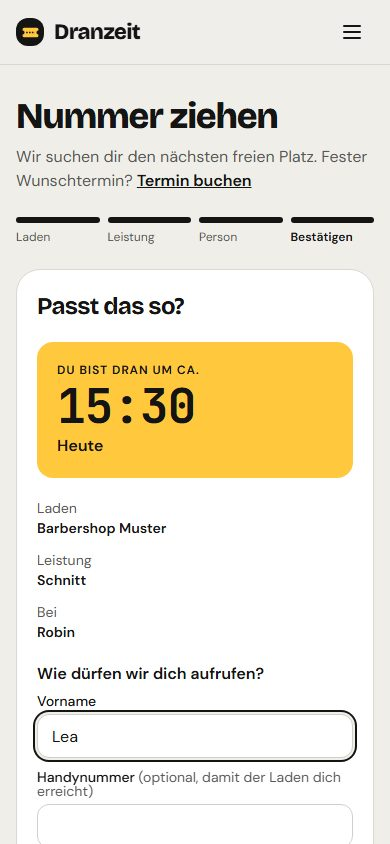
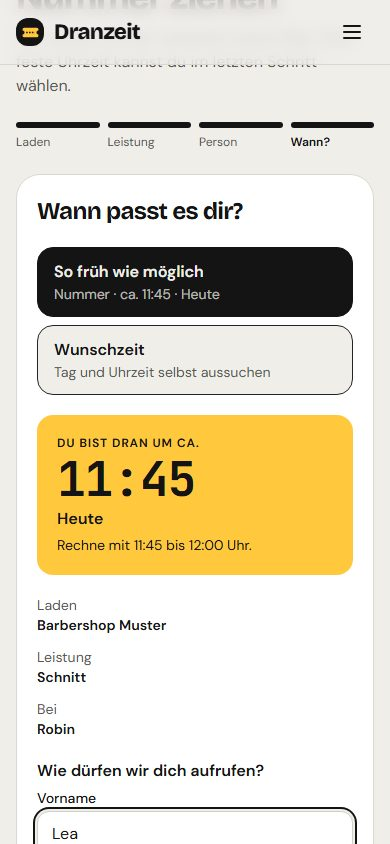
Hilfe-Bilder neu aus dem Testladen, Browser-Tests an die neue Bedienung
- Testladen neu angelegt (das alte Testkonto war beim Konten-Aufräumen weg);
  dev/e2e/hilfe-bilder.cjs hat alle 14 Hilfe-Bilder neu aufgenommen: Heute
  mit Startklar, „Wann passt es dir?“, Zeitfenster auf der Nummer, Dialog
  „Kunde eintragen“, Tarif mit neuem Menü u. a.
- nummer-vergeben.md: Bildunterschrift zum Dialog „Kunde eintragen“
- schlange-tresen.cjs: liest die Zeile „3 warten · …“ unter „Heute“ statt
  der Kachel, die jetzt im Kalender steht
- warteschlange-sonderfaelle.cjs: Blocker anlegen, nachlesen und aufräumen
  als Inhaber des Testladens – ohne Anmeldung lassen die Firestore-Regeln
  (seit 23.10.) weder Nummern ohne Schlüssel noch fremde Termine zu

diff --git a/backend/app/hilfe/artikel/nummer-vergeben.md b/backend/app/hilfe/artikel/nummer-vergeben.md
@@ -15,7 +15,7 @@ Steht jemand ohne Handy vor dir, reihst du ihn selbst ein. Dranzeit sucht dabei 
 4. Trag bei **„Name zum Aufrufen (freiwillig)“** ein, wie du ihn nachher rufst, zum Beispiel „Herr Krause“.
 5. Tipp auf **„Nummer vergeben“**.
 
-![„Nummer vergeben“: Leistung, Person und freiwillig ein Name. Der nächste freie Platz steht gleich dabei.](/img/hilfe/nummer-vergeben.jpg)
+![„Kunde eintragen“ mit „Nummer (nächster Platz)“: Leistung, Person und freiwillig ein Name. Der nächste freie Platz steht gleich dabei.](/img/hilfe/nummer-vergeben.jpg)
 
 Zur Bestätigung zeigt Dranzeit die **Nummer** groß an, dazu wann und bei wem der Kunde dran ist, zum Beispiel „Nr. 42 · heute um 10:30 bei Anna“. Sag ihm Nummer und Uhrzeit, am besten auf einem Zettel. Mit **„Fertig“** schließt du das Fenster, mit **„Noch eine Nummer“** vergibst du gleich die nächste.
 
